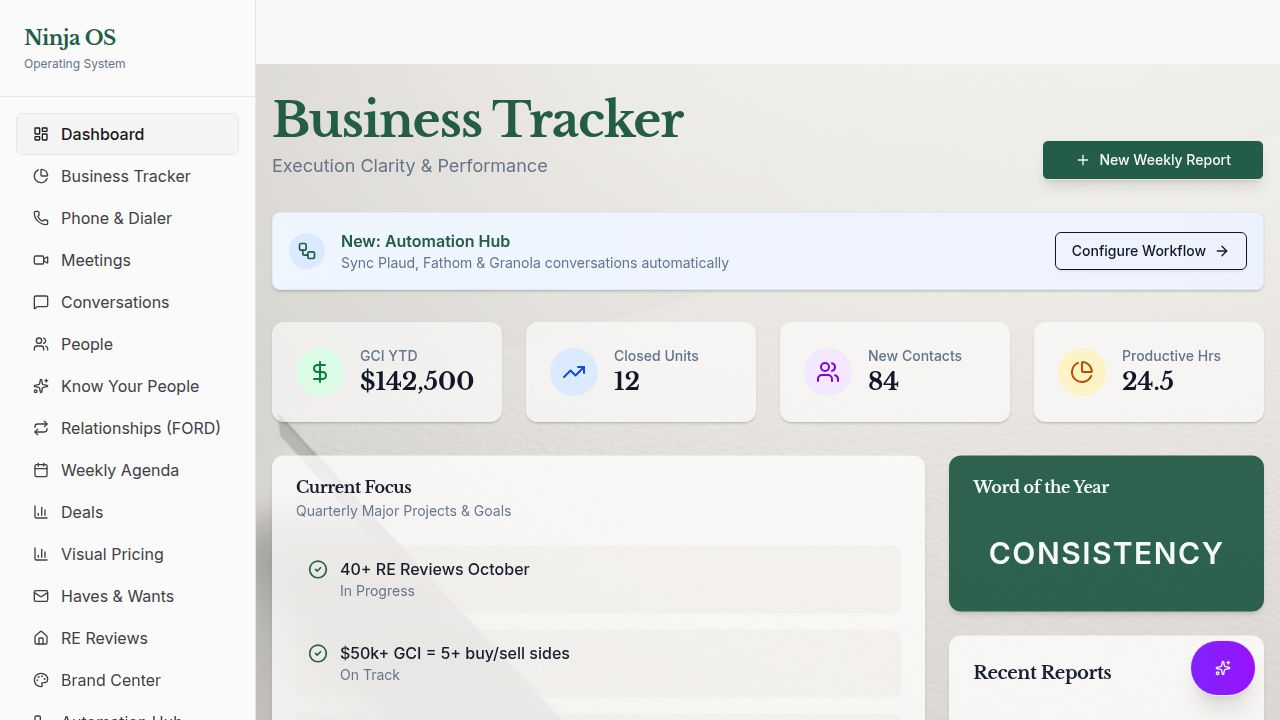
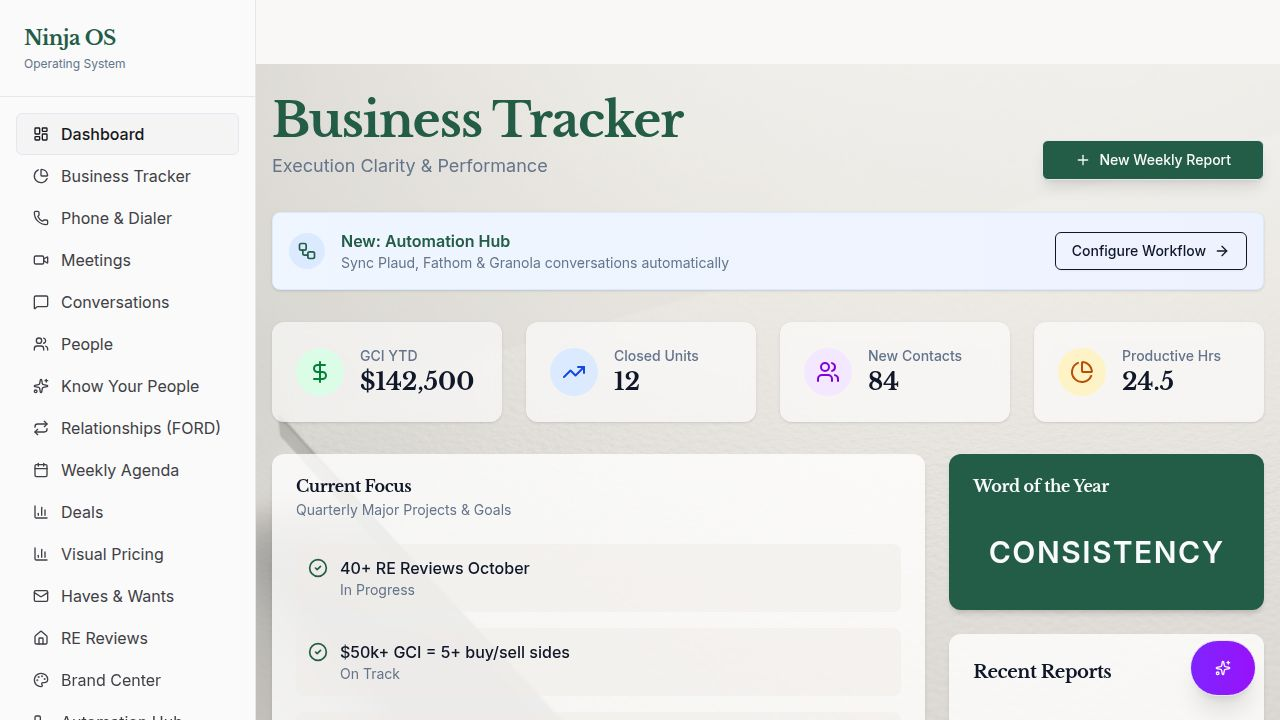
Improve mobile app performance and responsiveness for a smoother experience
Optimize mobile UI with faster animations, larger touch targets, reduced motion, and GPU acceleration for a snappier and more fluid user experience.

Replit-Commit-Author: Agent
Replit-Commit-Session-Id: 6c31a2a0-6acf-4edd-a9ca-cdbbe3dfd059
Replit-Commit-Checkpoint-Type: intermediate_checkpoint
Replit-Commit-Event-Id: a0156659-65c3-4507-bf5d-3c7cf949dab8
Replit-Commit-Screenshot-Url: https://storage.googleapis.com/screenshot-production-us-central1/82773350-4ad4-4f8e-af08-bbdce2161ee4/6c31a2a0-6acf-4edd-a9ca-cdbbe3dfd059/P6HUb1G
Replit-Helium-Checkpoint-Created: true

diff --git a/client/src/components/layout.tsx b/client/src/components/layout.tsx
@@ -58,7 +58,7 @@ function NavContent({ location, setOpen, userName, userInitials, brokerage }: Na
         <h1 className="text-xl font-serif font-bold tracking-tight text-primary">Ninja OS</h1>
         <p className="text-xs text-muted-foreground mt-1">Operating System</p>
       </div>
-      <nav className="flex-1 p-4 space-y-2">
+      <nav className="flex-1 p-3 space-y-1 overflow-y-auto">
         {navItems.map((item) => {
           const isActive = location === item.href;
           return (
@@ -66,13 +66,13 @@ function NavContent({ location, setOpen, userName, userInitials, brokerage }: Na
               <Button
                 variant={isActive ? "secondary" : "ghost"}
                 className={cn(
-                  "w-full justify-start gap-3 text-base font-normal",
+                  "w-full justify-start gap-3 text-base font-normal h-11 px-3",
                   isActive && "bg-sidebar-accent text-sidebar-accent-foreground font-medium"
                 )}
                 onClick={() => setOpen(false)}
               >
-                <item.icon className="h-5 w-5" />
-                {item.name}
+                <item.icon className="h-5 w-5 flex-shrink-0" />
+                <span className="truncate">{item.name}</span>
               </Button>
             </Link>
           );
@@ -122,15 +122,15 @@ export default function LayoutComponent({ children }: { children: React.ReactNod
         <NavContent {...navProps} />
       </aside>
 
-      <div className="md:hidden fixed top-0 left-0 right-0 z-50 bg-background border-b px-4 py-3 flex items-center justify-between" style={{ paddingTop: 'max(0.75rem, env(safe-area-inset-top))' }}>
-        <span className="font-serif font-bold text-primary">Ninja OS</span>
+      <div className="md:hidden fixed top-0 left-0 right-0 z-50 bg-background/95 backdrop-blur-sm border-b px-4 py-2 flex items-center justify-between will-change-transform" style={{ paddingTop: 'max(0.5rem, env(safe-area-inset-top))' }}>
+        <span className="font-serif font-bold text-primary text-lg">Ninja OS</span>
         <Sheet open={open} onOpenChange={setOpen}>
           <SheetTrigger asChild>
-            <Button variant="ghost" size="icon">
-              <Menu className="h-5 w-5" />
+            <Button variant="ghost" size="icon" className="h-10 w-10">
+              <Menu className="h-6 w-6" />
             </Button>
           </SheetTrigger>
-          <SheetContent side="left" className="p-0 w-64">
+          <SheetContent side="left" className="p-0 w-72 will-change-transform">
             <NavContent {...navProps} />
           </SheetContent>
         </Sheet>

diff --git a/client/src/index.css b/client/src/index.css
@@ -174,6 +174,81 @@
   }
 }
 
+/* Mobile optimizations */
+@media (max-width: 768px) {
+  /* Faster transitions on mobile */
+  *, *::before, *::after {
+    transition-duration: 0.15s !important;
+  }
+  
+  /* Better touch targets - minimum 44px */
+  button, 
+  [role="button"],
+  a,
+  input,
+  select,
+  textarea {
+    min-height: 44px;
+  }
+  
+  /* GPU acceleration for smoother scrolling */
+  .container,
+  main,
+  [role="tabpanel"] {
+    transform: translateZ(0);
+    -webkit-overflow-scrolling: touch;
+  }
+  
+  /* Reduce heavy background effects on mobile */
+  .fixed.inset-0.opacity-40 {
+    opacity: 0.15 !important;
+  }
+  
+  /* Better tap feedback */
+  button:active,
+  [role="button"]:active,
+  a:active {
+    transform: scale(0.98);
+    opacity: 0.9;
+  }
+  
+  /* Prevent text selection on interactive elements */
+  button, [role="button"] {
+    -webkit-user-select: none;
+    user-select: none;
+    -webkit-tap-highlight-color: transparent;
+  }
+  
+  /* Smoother cards */
+  .card, [class*="Card"] {
+    transform: translateZ(0);
+  }
+  
+  /* Reduce shadow complexity on mobile */
+  .shadow-lg, .shadow-md {
+    box-shadow: 0 2px 8px rgba(0,0,0,0.08) !important;
+  }
+}
+
+/* Respect reduced motion preference */
+@media (prefers-reduced-motion: reduce) {
+  *, *::before, *::after {
+    animation-duration: 0.01ms !important;
+    animation-iteration-count: 1 !important;
+    transition-duration: 0.01ms !important;
+  }
+}
+
+/* Smooth scrolling for the whole page */
+html {
+  scroll-behavior: smooth;
+}
+
+/* Prevent overscroll bounce on iOS */
+body {
+  overscroll-behavior: none;
+}
+
 @media print {
   @page {
     margin: 0.5in;

diff --git a/client/src/components/ui/sheet.tsx b/client/src/components/ui/sheet.tsx
@@ -30,7 +30,7 @@ const SheetOverlay = React.forwardRef<
 SheetOverlay.displayName = SheetPrimitive.Overlay.displayName
 
 const sheetVariants = cva(
-  "fixed z-50 gap-4 bg-background p-6 shadow-lg transition ease-in-out data-[state=closed]:duration-300 data-[state=open]:duration-500 data-[state=open]:animate-in data-[state=closed]:animate-out",
+  "fixed z-50 gap-4 bg-background p-6 shadow-lg transition ease-out data-[state=closed]:duration-150 data-[state=open]:duration-200 data-[state=open]:animate-in data-[state=closed]:animate-out",
   {
     variants: {
       side: {
